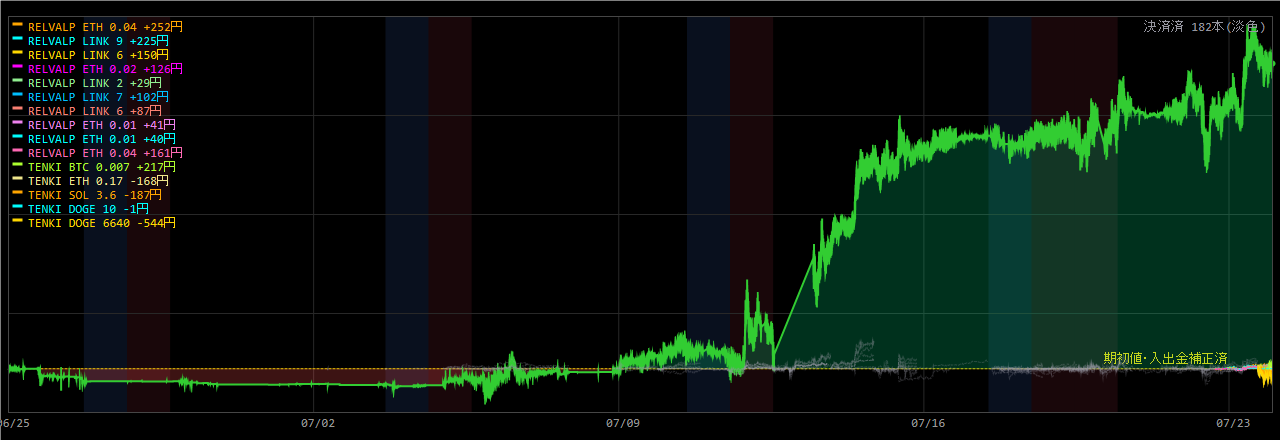
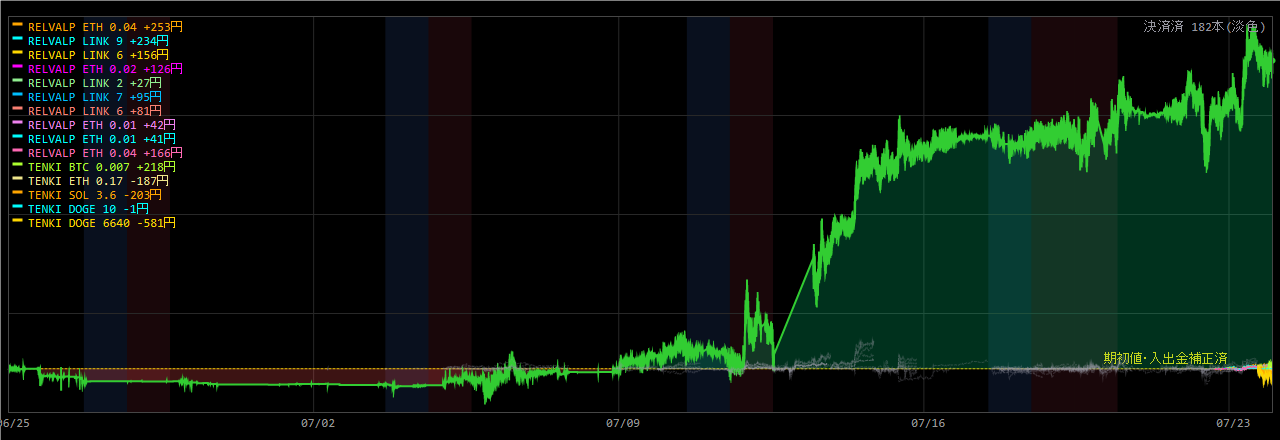
Coin100S 運用状況更新 07-24 14:29

diff --git a/coin100s-795hc4jfv8/index.html b/coin100s-795hc4jfv8/index.html
@@ -14,16 +14,16 @@ a{color:#60a5fa;text-decoration:none} a:hover{text-decoration:underline}
 .meta{color:#94a3b8;font-size:13px}</style>
 <script>setTimeout(function(){location.replace(location.pathname+"?t="+Date.now());},300000);</script></head><body>
 <h1>Coin100S ダッシュボード</h1>
-<p class="meta">スナップショット: 2026-07-24 14:22:39(自動リロード・最新化)</p>
+<p class="meta">スナップショット: 2026-07-24 14:28:39(自動リロード・最新化)</p>
 <div class="cards">
 <div class="card">建玉数<div class="v">15</div></div>
 <div class="card">本日損益<div class="v pos">+2,290円</div></div>
-<div class="card">評価損益<div class="v pos">+484円</div></div>
+<div class="card">評価損益<div class="v pos">+380円</div></div>
 </div>
 <h2>現在の建玉</h2>
-<table><tr><th>銘柄</th><th>側</th><th>数量</th><th>建値</th><th>含損益</th><th>レッグ</th></tr><tr><td>BTC_JPY</td><td>BUY</td><td>0.007</td><td>@10,672,390</td><td>+196円</td><td>TENKI5D_REV_BTC</td></tr><tr><td>DOGE_JPY</td><td>BUY</td><td>6640</td><td>@11</td><td>-558円</td><td>TENKI5D_REV_DOGE</td></tr><tr><td>DOGE_JPY</td><td>BUY</td><td>10</td><td>@11</td><td>-1円</td><td>TENKI5D_REV_DOGE</td></tr><tr><td>ETH_JPY</td><td>BUY</td><td>0.17</td><td>@309,150</td><td>-181円</td><td>TENKI5D_REV_ETH</td></tr><tr><td>ETH_JPY</td><td>SELL</td><td>0.04</td><td>@312,191</td><td>+164円</td><td>RELVALP_SELL</td></tr><tr><td>ETH_JPY</td><td>SELL</td><td>0.01</td><td>@312,191</td><td>+41円</td><td>RELVALP_SELL</td></tr><tr><td>ETH_JPY</td><td>SELL</td><td>0.01</td><td>@312,216</td><td>+41円</td><td>RELVALP_SELL</td></tr><tr><td>ETH_JPY</td><td>SELL</td><td>0.02</td><td>@314,458</td><td>+127円</td><td>RELVALP_SL700</td></tr><tr><td>ETH_JPY</td><td>SELL</td><td>0.04</td><td>@314,458</td><td>+254円</td><td>RELVALP_SELL</td></tr><tr><td>LINK_JPY</td><td>SELL</td><td>6</td><td>@1,398</td><td>+84円</td><td>RELVALP_SL700</td></tr><tr><td>LINK_JPY</td><td>SELL</td><td>7</td><td>@1,398</td><td>+98円</td><td>RELVALP_SELL</td></tr><tr><td>LINK_JPY</td><td>SELL</td><td>2</td><td>@1,398</td><td>+28円</td><td>RELVALP_SELL</td></tr><tr><td>LINK_JPY</td><td>SELL</td><td>6</td><td>@1,409</td><td>+150円</td><td>RELVALP_SL700</td></tr><tr><td>LINK_JPY</td><td>SELL</td><td>9</td><td>@1,409</td><td>+225円</td><td>RELVALP_SELL</td></tr><tr><td>SOL_JPY</td><td>BUY</td><td>3.6</td><td>@12,472</td><td>-184円</td><td>TENKI5D_REV_SOL</td></tr></table>
+<table><tr><th>銘柄</th><th>側</th><th>数量</th><th>建値</th><th>含損益</th><th>レッグ</th></tr><tr><td>BTC_JPY</td><td>BUY</td><td>0.007</td><td>@10,672,390</td><td>+194円</td><td>TENKI5D_REV_BTC</td></tr><tr><td>DOGE_JPY</td><td>BUY</td><td>6640</td><td>@11</td><td>-631円</td><td>TENKI5D_REV_DOGE</td></tr><tr><td>DOGE_JPY</td><td>BUY</td><td>10</td><td>@11</td><td>-1円</td><td>TENKI5D_REV_DOGE</td></tr><tr><td>ETH_JPY</td><td>BUY</td><td>0.17</td><td>@309,150</td><td>-204円</td><td>TENKI5D_REV_ETH</td></tr><tr><td>ETH_JPY</td><td>SELL</td><td>0.04</td><td>@312,191</td><td>+169円</td><td>RELVALP_SELL</td></tr><tr><td>ETH_JPY</td><td>SELL</td><td>0.01</td><td>@312,191</td><td>+42円</td><td>RELVALP_SELL</td></tr><tr><td>ETH_JPY</td><td>SELL</td><td>0.01</td><td>@312,216</td><td>+42円</td><td>RELVALP_SELL</td></tr><tr><td>ETH_JPY</td><td>SELL</td><td>0.02</td><td>@314,458</td><td>+130円</td><td>RELVALP_SL700</td></tr><tr><td>ETH_JPY</td><td>SELL</td><td>0.04</td><td>@314,458</td><td>+260円</td><td>RELVALP_SELL</td></tr><tr><td>LINK_JPY</td><td>SELL</td><td>6</td><td>@1,398</td><td>+84円</td><td>RELVALP_SL700</td></tr><tr><td>LINK_JPY</td><td>SELL</td><td>7</td><td>@1,398</td><td>+98円</td><td>RELVALP_SELL</td></tr><tr><td>LINK_JPY</td><td>SELL</td><td>2</td><td>@1,398</td><td>+28円</td><td>RELVALP_SELL</td></tr><tr><td>LINK_JPY</td><td>SELL</td><td>6</td><td>@1,409</td><td>+150円</td><td>RELVALP_SL700</td></tr><tr><td>LINK_JPY</td><td>SELL</td><td>9</td><td>@1,409</td><td>+225円</td><td>RELVALP_SELL</td></tr><tr><td>SOL_JPY</td><td>BUY</td><td>3.6</td><td>@12,472</td><td>-206円</td><td>TENKI5D_REV_SOL</td></tr></table>
 <p><a href="status.html"><b>▶ 運用状況の詳細(チャート・本日の取引・レジーム)</b></a></p>
 <h2>日報一覧</h2>
 <table><tr><th>取引日</th><th>実現損益</th><th>総括</th></tr><tr><td><a href='reports/20260723_Coin100S日報.html'>2026-07-23</a></td><td class="pos">+0円</td><td class='meta'>実取引: 新規8件/決済3件、実現損益 +0円。警告/孤児/エラーなし＝健全。</td></tr><tr><td><a href='reports/20260722_Coin100S日報.html'>2026-07-22</a></td><td class="pos">+0円</td><td class='meta'>実取引: 新規10件/決済5件、実現損益 +0円。シグナル却下1件（最多: BW10M3_5M／トレンド方向ゲート(N分傾き下と不一致=逆張り方向のfade禁止)）。⚠警告/エラー 9件（要確認）。</td></tr><tr><td><a href='reports/20260721_Coin100S日報.html'>2026-07-21</a></td><td class="pos">+0円</td><td class='meta'>実取引: 新規4件/決済13件、実現損益 +0円。⚠警告/エラー 13件（要確認）。</td></tr><tr><td><a href='reports/20260720_Coin100S日報.html'>2026-07-20</a></td><td class="pos">+0円</td><td class='meta'>実取引: 新規8件/決済21件、実現損益 +0円。シグナル却下8件（最多: BW10M3_5M／トレンド方向ゲート(N分傾き上と不一致=逆張り方向のfade禁止)）。⚠警告/エラー 13件（要確認）。</td></tr><tr><td><a href='reports/20260719_Coin100S日報.html'>2026-07-19</a></td><td class="pos">+0円</td><td class='meta'>実取引: 新規10件/決済7件、実現損益 +0円。⚠警告/エラー 3件（要確認）。</td></tr><tr><td><a href='reports/20260718_Coin100S日報.html'>2026-07-18</a></td><td class="pos">+0円</td><td class='meta'>実取引: 新規9件/決済8件、実現損益 +0円。警告/孤児/エラーなし＝健全。</td></tr><tr><td><a href='reports/20260717_Coin100S日報.html'>2026-07-17</a></td><td class="pos">+0円</td><td class='meta'>実取引: 新規3件/決済2件、実現損益 +0円。シグナル却下1件（最多: BW10M3_5M／トレンド方向ゲート(N分傾き下と不一致=逆張り方向のfade禁止)）。⚠警告/エラー 2件（要確認）。</td></tr><tr><td><a href='reports/20260716_Coin100S日報.html'>2026-07-16</a></td><td class="pos">+0円</td><td class='meta'>実取引: 新規0件/決済5件、実現損益 +0円。⚠警告/エラー 7件（要確認）。</td></tr><tr><td><a href='reports/20260715_Coin100S日報.html'>2026-07-15</a></td><td class="pos">+0円</td><td class='meta'>実取引: 新規6件/決済5件、実現損益 +0円。シグナル却下6件（最多: BW10M3_5M／トレンド方向ゲート(N分傾き上と不一致=逆張り方向のfade禁止)）。⚠警告/エラー 7件（要確認）。</td></tr><tr><td><a href='reports/20260714_Coin100S日報.html'>2026-07-14</a></td><td class="pos">+0円</td><td class='meta'>実取引: 新規6件/決済18件、実現損益 +0円。シグナル却下5件（最多: BW10M3_5M／トレンド方向ゲート(N分傾き上と不一致=逆張り方向のfade禁止)）。⚠警告/エラー 9件（要確認）。</td></tr><tr><td><a href='reports/20260713_Coin100S日報.html'>2026-07-13</a></td><td class="pos">+0円</td><td class='meta'>実取引: 新規5件/決済8件、実現損益 +0円。シグナル却下1件（最多: BW10M3_5M／トレンド方向ゲート(N分傾き上と不一致=逆張り方向のfade禁止)）。警告/孤児/エラーなし＝健全。</td></tr><tr><td><a href='reports/20260712_Coin100S日報.html'>2026-07-12</a></td><td class="pos">+0円</td><td class='meta'>実取引: 新規14件/決済6件、実現損益 +0円。シグナル却下5件（最多: BW10M3_5M／トレンド方向ゲート(N分傾き下と不一致=逆張り方向のfade禁止)）。⚠警告/エラー 2件（要確認）。</td></tr><tr><td><a href='reports/20260711_Coin100S日報.html'>2026-07-11</a></td><td class="pos">+0円</td><td class='meta'>実取引: 新規7件/決済6件、実現損益 +0円。⚠警告/エラー 52件（要確認）。</td></tr><tr><td><a href='reports/20260710_Coin100S日報.html'>2026-07-10</a></td><td class="pos">+0円</td><td class='meta'>実取引: 新規7件/決済6件、実現損益 +0円。シグナル却下6件（最多: BW10M3_5M／トレンド方向ゲート(N分傾き上と不一致=逆張り方向のfade禁止)）。警告/孤児/エラーなし＝健全。</td></tr><tr><td><a href='reports/20260709_Coin100S日報.html'>2026-07-09</a></td><td class="pos">+0円</td><td class='meta'>実取引: 新規8件/決済3件、実現損益 +0円。シグナル却下5件（最多: SD120M_5M／トレンド方向ゲート(N分傾き上と不一致=逆張り方向のfade禁止)）。警告/孤児/エラーなし＝健全。</td></tr><tr><td><a href='reports/20260708_Coin100S日報.html'>2026-07-08</a></td><td class="pos">+0円</td><td class='meta'>実取引: 新規2件/決済4件、実現損益 +0円。シグナル却下4件（最多: SD120M_5M／トレンド方向ゲート(N分傾き下と不一致=逆張り方向のfade禁止)）。警告/孤児/エラーなし＝健全。</td></tr><tr><td><a href='reports/20260707_Coin100S日報.html'>2026-07-07</a></td><td class="pos">+0円</td><td class='meta'>実取引: 新規8件/決済6件、実現損益 +0円。シグナル却下4件（最多: SD120M_5M／トレンド方向ゲート(N分傾き上と不一致=逆張り方向のfade禁止)）。⚠警告/エラー 258件（要確認）。</td></tr><tr><td><a href='reports/20260706_Coin100S日報.html'>2026-07-06</a></td><td class="pos">+0円</td><td class='meta'>実取引: 新規9件/決済6件、実現損益 +0円。シグナル却下9件（最多: SD120M_5M／トレンド方向ゲート(N分傾き上と不一致=逆張り方向のfade禁止)）。⚠警告/エラー 150件（要確認）。</td></tr><tr><td><a href='reports/20260705_Coin100S日報.html'>2026-07-05</a></td><td class="pos">+0円</td><td class='meta'>実取引: 新規8件/決済3件、実現損益 +0円。⚠警告/エラー 2件（要確認）。</td></tr><tr><td><a href='reports/20260704_Coin100S日報.html'>2026-07-04</a></td><td class="pos">+0円</td><td class='meta'>実取引: 新規1件/決済2件、実現損益 +0円。⚠警告/エラー 2件（要確認）。</td></tr><tr><td><a href='reports/20260703_Coin100S日報.html'>2026-07-03</a></td><td class="pos">+0円</td><td class='meta'>実取引: 新規5件/決済4件、実現損益 +0円。⚠警告/エラー 15件（要確認）。</td></tr><tr><td><a href='reports/20260702_Coin100S日報.html'>2026-07-02</a></td><td class="pos">+0円</td><td class='meta'>実取引: 新規7件/決済5件、実現損益 +0円。シグナル却下17件（最多: SD120M_5M／トレンド方向ゲート(N分傾き上と不一致=逆張り方向のfade禁止)）。⚠警告/エラー 26件（要確認）。</td></tr><tr><td><a href='reports/20260701_Coin100S日報.html'>2026-07-01</a></td><td class="pos">+0円</td><td class='meta'>実取引: 新規14件/決済8件、実現損益 +0円。シグナル却下14件（最多: SD120M_5M／ボラ軸ゲート(SDN%&amp;gt;N%=高ボラ/荒れレンジ)）。⚠警告/エラー 2件（要確認）。</td></tr><tr><td><a href='reports/20260630_Coin100S日報.html'>2026-06-30</a></td><td class="pos">+0円</td><td class='meta'>実取引: 新規0件/決済1件、実現損益 +0円。シグナル却下29件（最多: 微5M／当日枠N）。警告/孤児/エラーなし＝健全。</td></tr></table>
-<hr><p class="meta">更新: 2026-07-24 14:23:06 / 自動生成: tools/web_publish.py(§580)</p>
+<hr><p class="meta">更新: 2026-07-24 14:29:06 / 自動生成: tools/web_publish.py(§580)</p>
 </body></html>

diff --git a/coin100s-795hc4jfv8/status.html b/coin100s-795hc4jfv8/status.html
@@ -14,22 +14,22 @@ a{color:#60a5fa;text-decoration:none} a:hover{text-decoration:underline}
 .meta{color:#94a3b8;font-size:13px}</style>
 <script>setTimeout(function(){location.replace(location.pathname+"?t="+Date.now());},300000);</script></head><body>
 <h1>Coin100S 運用状況</h1>
-<p class="meta">スナップショット: 2026-07-24 14:22:39 / ページ生成: 2026-07-24 14:23:06(自動リロード・最新化) / <a href="index.html">目次へ</a></p>
+<p class="meta">スナップショット: 2026-07-24 14:28:39 / ページ生成: 2026-07-24 14:29:06(自動リロード・最新化) / <a href="index.html">目次へ</a></p>
 <div class="cards">
 <div class="card">建玉数<div class="v">15</div></div>
 <div class="card">本日損益<div class="v pos">+2,290円</div></div>
-<div class="card">評価損益<div class="v pos">+484円</div></div>
+<div class="card">評価損益<div class="v pos">+380円</div></div>
 </div>
 <h2>資産推移(直近30日)</h2>
-<img src="status_equity.png?t=1423" alt="equity">
+<img src="status_equity.png?t=1429" alt="equity">
 <h2>取引チャート(直近24h)</h2>
-<img src="status_chart.png?t=1423" alt="chart">
+<img src="status_chart.png?t=1429" alt="chart">
 <h2>建玉一覧</h2>
-<table><tr><th>銘柄</th><th>側</th><th>数量</th><th>建値</th><th>含損益</th><th>レッグ</th></tr><tr><td>BTC_JPY</td><td>BUY</td><td>0.007</td><td>@10,672,390</td><td>+196円</td><td>TENKI5D_REV_BTC</td></tr><tr><td>DOGE_JPY</td><td>BUY</td><td>6640</td><td>@11</td><td>-558円</td><td>TENKI5D_REV_DOGE</td></tr><tr><td>DOGE_JPY</td><td>BUY</td><td>10</td><td>@11</td><td>-1円</td><td>TENKI5D_REV_DOGE</td></tr><tr><td>ETH_JPY</td><td>BUY</td><td>0.17</td><td>@309,150</td><td>-181円</td><td>TENKI5D_REV_ETH</td></tr><tr><td>ETH_JPY</td><td>SELL</td><td>0.04</td><td>@312,191</td><td>+164円</td><td>RELVALP_SELL</td></tr><tr><td>ETH_JPY</td><td>SELL</td><td>0.01</td><td>@312,191</td><td>+41円</td><td>RELVALP_SELL</td></tr><tr><td>ETH_JPY</td><td>SELL</td><td>0.01</td><td>@312,216</td><td>+41円</td><td>RELVALP_SELL</td></tr><tr><td>ETH_JPY</td><td>SELL</td><td>0.02</td><td>@314,458</td><td>+127円</td><td>RELVALP_SL700</td></tr><tr><td>ETH_JPY</td><td>SELL</td><td>0.04</td><td>@314,458</td><td>+254円</td><td>RELVALP_SELL</td></tr><tr><td>LINK_JPY</td><td>SELL</td><td>6</td><td>@1,398</td><td>+84円</td><td>RELVALP_SL700</td></tr><tr><td>LINK_JPY</td><td>SELL</td><td>7</td><td>@1,398</td><td>+98円</td><td>RELVALP_SELL</td></tr><tr><td>LINK_JPY</td><td>SELL</td><td>2</td><td>@1,398</td><td>+28円</td><td>RELVALP_SELL</td></tr><tr><td>LINK_JPY</td><td>SELL</td><td>6</td><td>@1,409</td><td>+150円</td><td>RELVALP_SL700</td></tr><tr><td>LINK_JPY</td><td>SELL</td><td>9</td><td>@1,409</td><td>+225円</td><td>RELVALP_SELL</td></tr><tr><td>SOL_JPY</td><td>BUY</td><td>3.6</td><td>@12,472</td><td>-184円</td><td>TENKI5D_REV_SOL</td></tr></table>
+<table><tr><th>銘柄</th><th>側</th><th>数量</th><th>建値</th><th>含損益</th><th>レッグ</th></tr><tr><td>BTC_JPY</td><td>BUY</td><td>0.007</td><td>@10,672,390</td><td>+194円</td><td>TENKI5D_REV_BTC</td></tr><tr><td>DOGE_JPY</td><td>BUY</td><td>6640</td><td>@11</td><td>-631円</td><td>TENKI5D_REV_DOGE</td></tr><tr><td>DOGE_JPY</td><td>BUY</td><td>10</td><td>@11</td><td>-1円</td><td>TENKI5D_REV_DOGE</td></tr><tr><td>ETH_JPY</td><td>BUY</td><td>0.17</td><td>@309,150</td><td>-204円</td><td>TENKI5D_REV_ETH</td></tr><tr><td>ETH_JPY</td><td>SELL</td><td>0.04</td><td>@312,191</td><td>+169円</td><td>RELVALP_SELL</td></tr><tr><td>ETH_JPY</td><td>SELL</td><td>0.01</td><td>@312,191</td><td>+42円</td><td>RELVALP_SELL</td></tr><tr><td>ETH_JPY</td><td>SELL</td><td>0.01</td><td>@312,216</td><td>+42円</td><td>RELVALP_SELL</td></tr><tr><td>ETH_JPY</td><td>SELL</td><td>0.02</td><td>@314,458</td><td>+130円</td><td>RELVALP_SL700</td></tr><tr><td>ETH_JPY</td><td>SELL</td><td>0.04</td><td>@314,458</td><td>+260円</td><td>RELVALP_SELL</td></tr><tr><td>LINK_JPY</td><td>SELL</td><td>6</td><td>@1,398</td><td>+84円</td><td>RELVALP_SL700</td></tr><tr><td>LINK_JPY</td><td>SELL</td><td>7</td><td>@1,398</td><td>+98円</td><td>RELVALP_SELL</td></tr><tr><td>LINK_JPY</td><td>SELL</td><td>2</td><td>@1,398</td><td>+28円</td><td>RELVALP_SELL</td></tr><tr><td>LINK_JPY</td><td>SELL</td><td>6</td><td>@1,409</td><td>+150円</td><td>RELVALP_SL700</td></tr><tr><td>LINK_JPY</td><td>SELL</td><td>9</td><td>@1,409</td><td>+225円</td><td>RELVALP_SELL</td></tr><tr><td>SOL_JPY</td><td>BUY</td><td>3.6</td><td>@12,472</td><td>-206円</td><td>TENKI5D_REV_SOL</td></tr></table>
 <h2>実現決済履歴(直近15件・OrderId単位)</h2>
 <table><tr><th>決済時刻</th><th>レッグ</th><th>銘柄</th><th>実現損益</th></tr><tr><td>07-24 06:08</td><td>RELVALP_SELL</td><td>XRP</td><td class="pos">+140円</td></tr><tr><td>07-24 06:08</td><td>RELVALP_SELL</td><td>XRP</td><td class="pos">+511円</td></tr><tr><td>07-24 06:08</td><td>RELVALP_SELL</td><td>ADA</td><td class="pos">+451円</td></tr><tr><td>07-24 06:08</td><td>RELVALP_SL700</td><td>ADA</td><td class="pos">+222円</td></tr><tr><td>07-24 06:08</td><td>RELVALP_SELL</td><td>XRP</td><td class="pos">+298円</td></tr><tr><td>07-24 06:08</td><td>RELVALP_SL700</td><td>XRP</td><td class="pos">+329円</td></tr><tr><td>07-24 06:08</td><td>RELVALP_SL700</td><td>ADA</td><td class="pos">+64円</td></tr><tr><td>07-24 06:08</td><td>RELVALP_SELL</td><td>XRP</td><td class="pos">+32円</td></tr><tr><td>07-24 06:08</td><td>RELVALP_SELL</td><td>ADA</td><td class="pos">+112円</td></tr><tr><td>07-24 06:08</td><td>RELVALP_SL700</td><td>XRP</td><td class="pos">+131円</td></tr><tr><td>07-23 21:46</td><td>SIGFADE_SOL</td><td>SOL</td><td class="pos">+557円</td></tr><tr><td>07-23 06:08</td><td>RELVALP_SELL</td><td>SOL</td><td class="neg">-67円</td></tr><tr><td>07-23 06:08</td><td>RELVALP_SL700</td><td>SOL</td><td class="neg">-21円</td></tr><tr><td>07-23 01:34</td><td>SIGFADE_BTC</td><td>BTC</td><td class="pos">+27円</td></tr><tr><td>07-22 09:08</td><td>SIGFADE_SOL</td><td>SOL</td><td class="pos">+220円</td></tr></table>
 <!-- §799c 「本取引日の実取引(6:00起点)」テーブルは公開ページから削除(ユーザー指示2026-07-15・数量/指値まで晒す情報漏れ)。建玉/実現損益は許可・実発注の生取引明細は非公開 -->
 <h2>現在レジーム(3軸・§570c)</h2>
-<ul><li>アルト対BTC 5日: <b>-57bps</b>(アルト劣後=RELVAL順風)</li><li>BTC ER240m: <b>0.087</b>(閾値0.25→レンジ(fade順風/BWTRD逆風))</li><li>BTC実現ボラ240m: <b>3.47</b> bps/分</li></ul>
+<ul><li>アルト対BTC 5日: <b>-57bps</b>(アルト劣後=RELVAL順風)</li><li>BTC ER240m: <b>0.086</b>(閾値0.25→レンジ(fade順風/BWTRD逆風))</li><li>BTC実現ボラ240m: <b>3.36</b> bps/分</li></ul>
 <hr><p class="meta">自動生成: tools/web_publish.py(§580・読み取り専用)。売買判断はアプリ本体。</p>
 </body></html>
